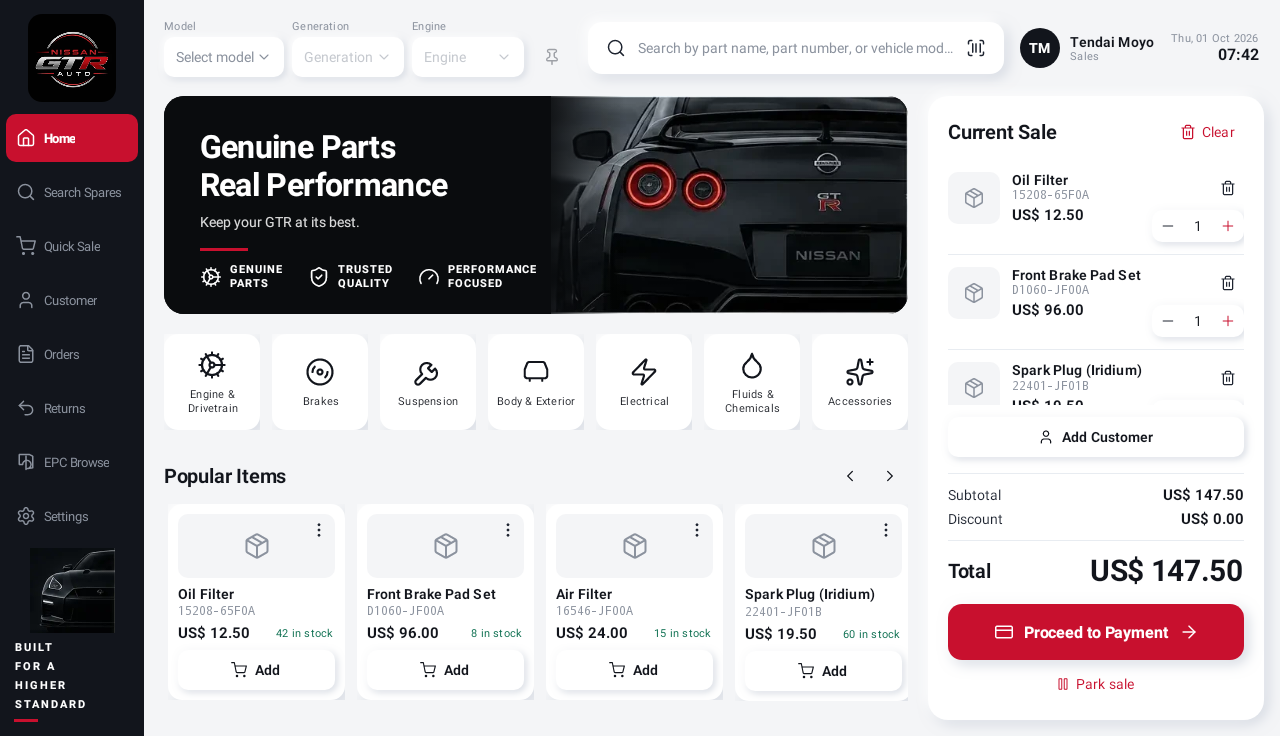
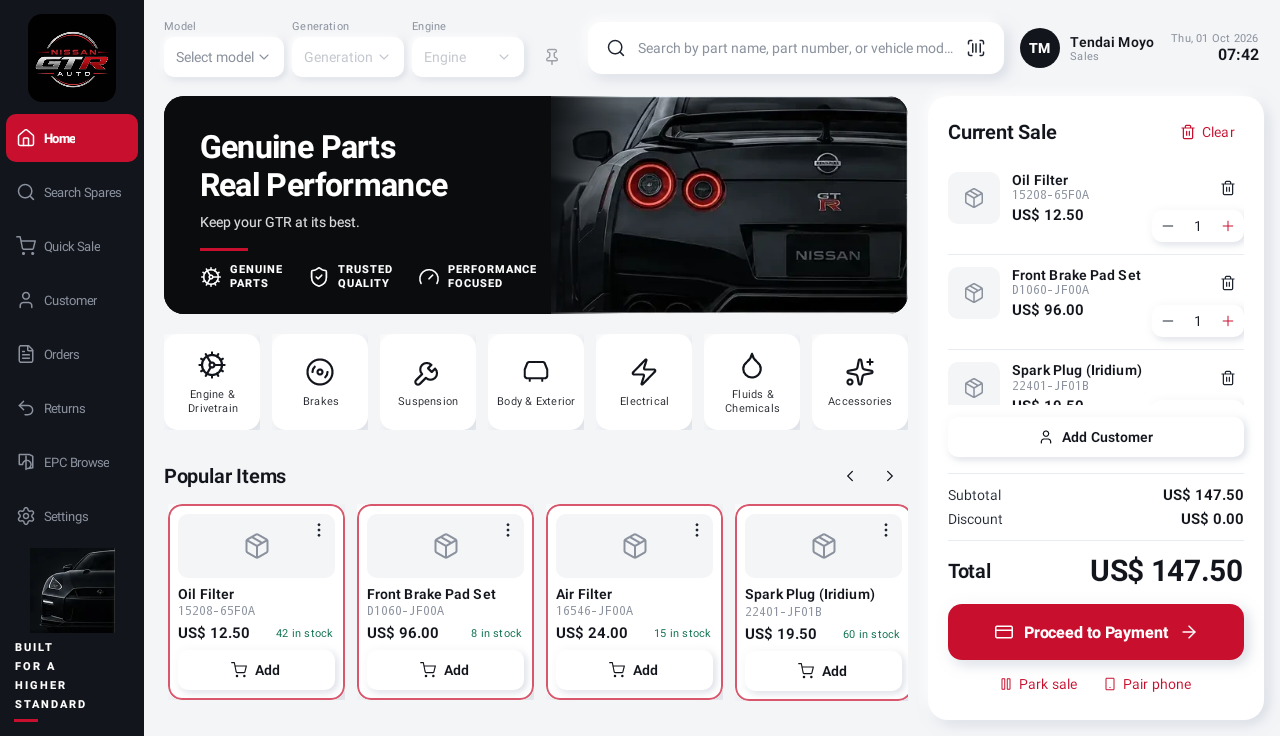
style(pos): red outer lining on item cards, web and tablet
Owner request: part cards get a brand-red outer border (1.5 px at 70 %)
so they stand out against the soft-UI canvas. On the web the lining
deepens with a faint red halo on hover or keyboard focus (no motion
with reduced-motion). The tablet's EPC parts rows use the same lining.

Claude-Session: https://claude.ai/code/session_01FvYTzMXQQjUhSMJGGXo1re

diff --git a/apps/android-management/feature/pos-ui/src/main/java/co/zw/nissangtr/pos/ui/home/PosDiscovery.kt b/apps/android-management/feature/pos-ui/src/main/java/co/zw/nissangtr/pos/ui/home/PosDiscovery.kt
@@ -3,6 +3,7 @@ package co.zw.nissangtr.pos.ui.home
 import androidx.compose.foundation.ExperimentalFoundationApi
 import androidx.compose.foundation.Image
 import androidx.compose.foundation.background
+import androidx.compose.foundation.border
 import androidx.compose.foundation.clickable
 import androidx.compose.foundation.combinedClickable
 import androidx.compose.foundation.layout.Arrangement
@@ -315,6 +316,8 @@ fun PartCard(
             .posNeuRaised()
             .clip(PosTheme.shape.md)
             .background(palette.surfacePrimary)
+            // Brand-red outer lining (owner request) — gives the soft card an edge.
+            .border(1.5.dp, palette.brandRed.copy(alpha = 0.7f), PosTheme.shape.md)
             .combinedClickable(
                 onClick = {},
                 onLongClick = {

diff --git a/apps/android-management/feature/pos-ui/src/main/java/co/zw/nissangtr/pos/ui/sale/PosEpcDiagram.kt b/apps/android-management/feature/pos-ui/src/main/java/co/zw/nissangtr/pos/ui/sale/PosEpcDiagram.kt
@@ -177,7 +177,7 @@ private fun EpcPartsList(
                     .heightIn(min = 64.dp)
                     .clip(PosTheme.shape.md)
                     .background(if (on) palette.surfaceElevated else palette.surfacePrimary)
-                    .border(if (on) 2.dp else 1.dp, if (on) palette.brandRed else palette.borderSubtle, PosTheme.shape.md)
+                    .border(if (on) 2.dp else 1.5.dp, if (on) palette.brandRed else palette.brandRed.copy(alpha = 0.7f), PosTheme.shape.md)
                     .clickable(role = Role.Button) { dispatch(PosSaleIntent.EpcSelect(p.oemPartNumber)) }
                     .semantics { selected = on }
                     .padding(horizontal = 12.dp, vertical = 8.dp),

diff --git a/apps/web/components/pos/pos.module.css b/apps/web/components/pos/pos.module.css
@@ -455,8 +455,19 @@
   padding: 12px;
   border-radius: var(--gtr-radius-md);
   background: var(--gtr-color-neutral-surface);
+  /* Brand-red outer lining gives the soft card an edge; deepens on hover/focus. */
+  border: 1.5px solid color-mix(in srgb, var(--pos-red) 70%, transparent);
   box-shadow: var(--gtr-neu-raised);
   min-height: 208px;
+  transition: border-color 160ms ease, box-shadow 160ms ease;
+}
+.partCard:hover,
+.partCard:focus-within {
+  border-color: var(--pos-red);
+  box-shadow: var(--gtr-neu-raised), 0 0 0 3px color-mix(in srgb, var(--pos-red) 14%, transparent);
+}
+@media (prefers-reduced-motion: reduce) {
+  .partCard { transition: none; }
 }
 .partImage {
   display: grid;
